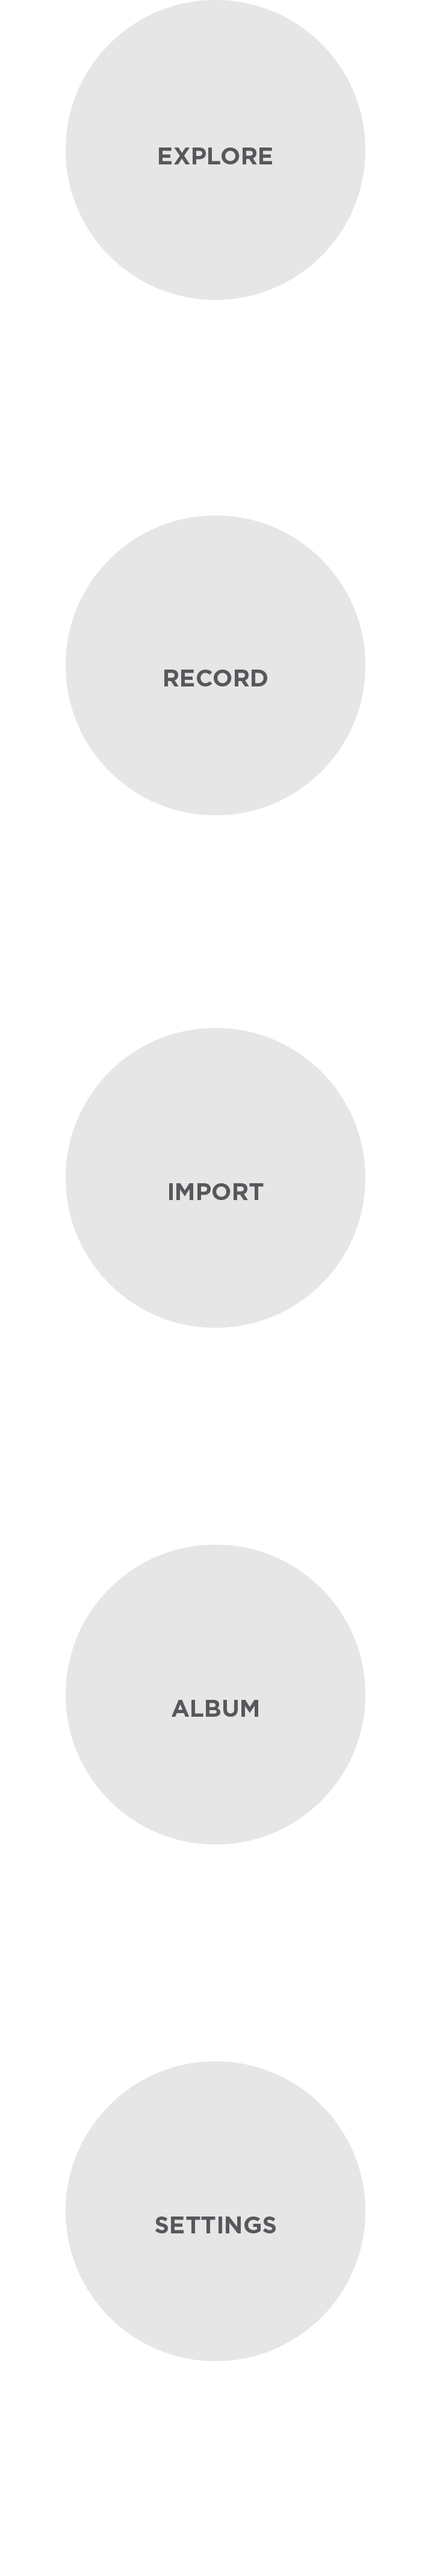
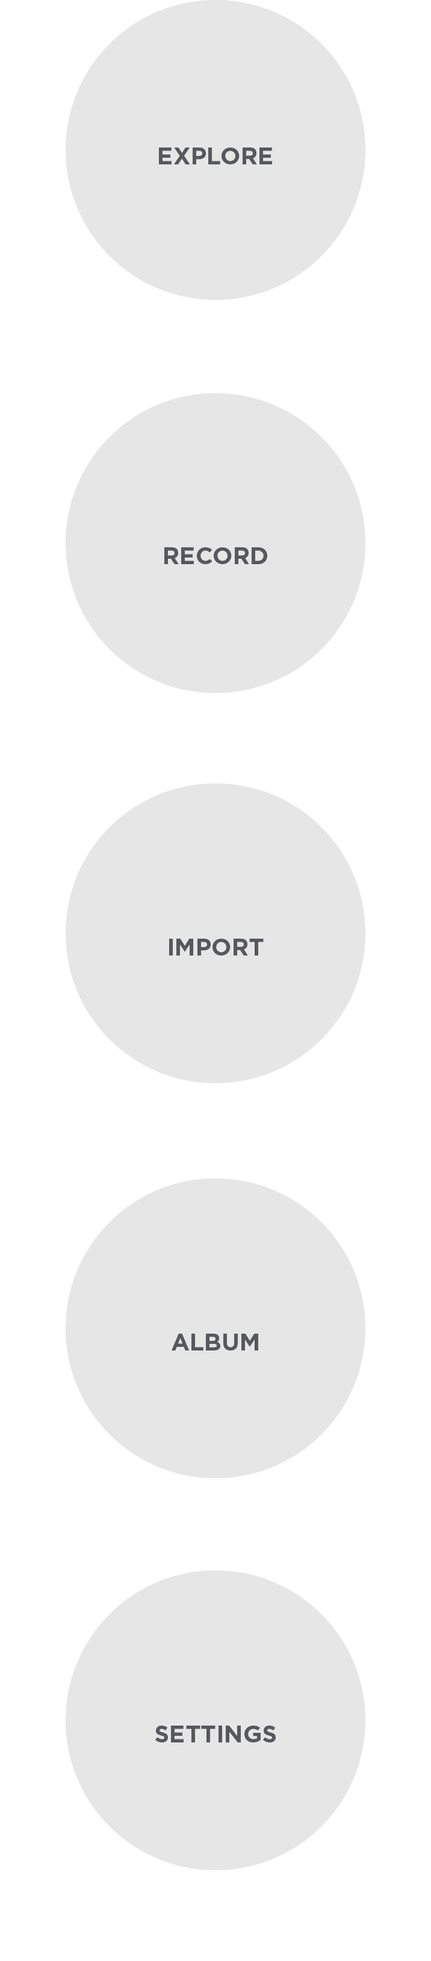
sp2
changed proportions and arrows

diff --git a/sp2/style.css b/sp2/style.css
@@ -22,7 +22,12 @@
 
 .menu img {
 	width: 100%;
-	margin: -845px 0 845px 0;
+	margin: -580px 0 580px 0;
 	float:left;
 	display: block;
+}
+
+.rightarrow {
+	margin: 220px 0 0 1200px;
+	position: fixed;
 }

diff --git a/sp2/index.html b/sp2/index.html
@@ -16,6 +16,9 @@
 		<img src="img/menu.png">
 		<img src="img/menu.png">
 	</div>
+	<div class="rightarrow">
+		<img src="img/rightarrow.png">
+	</div>
 </div>
 
 </body>
